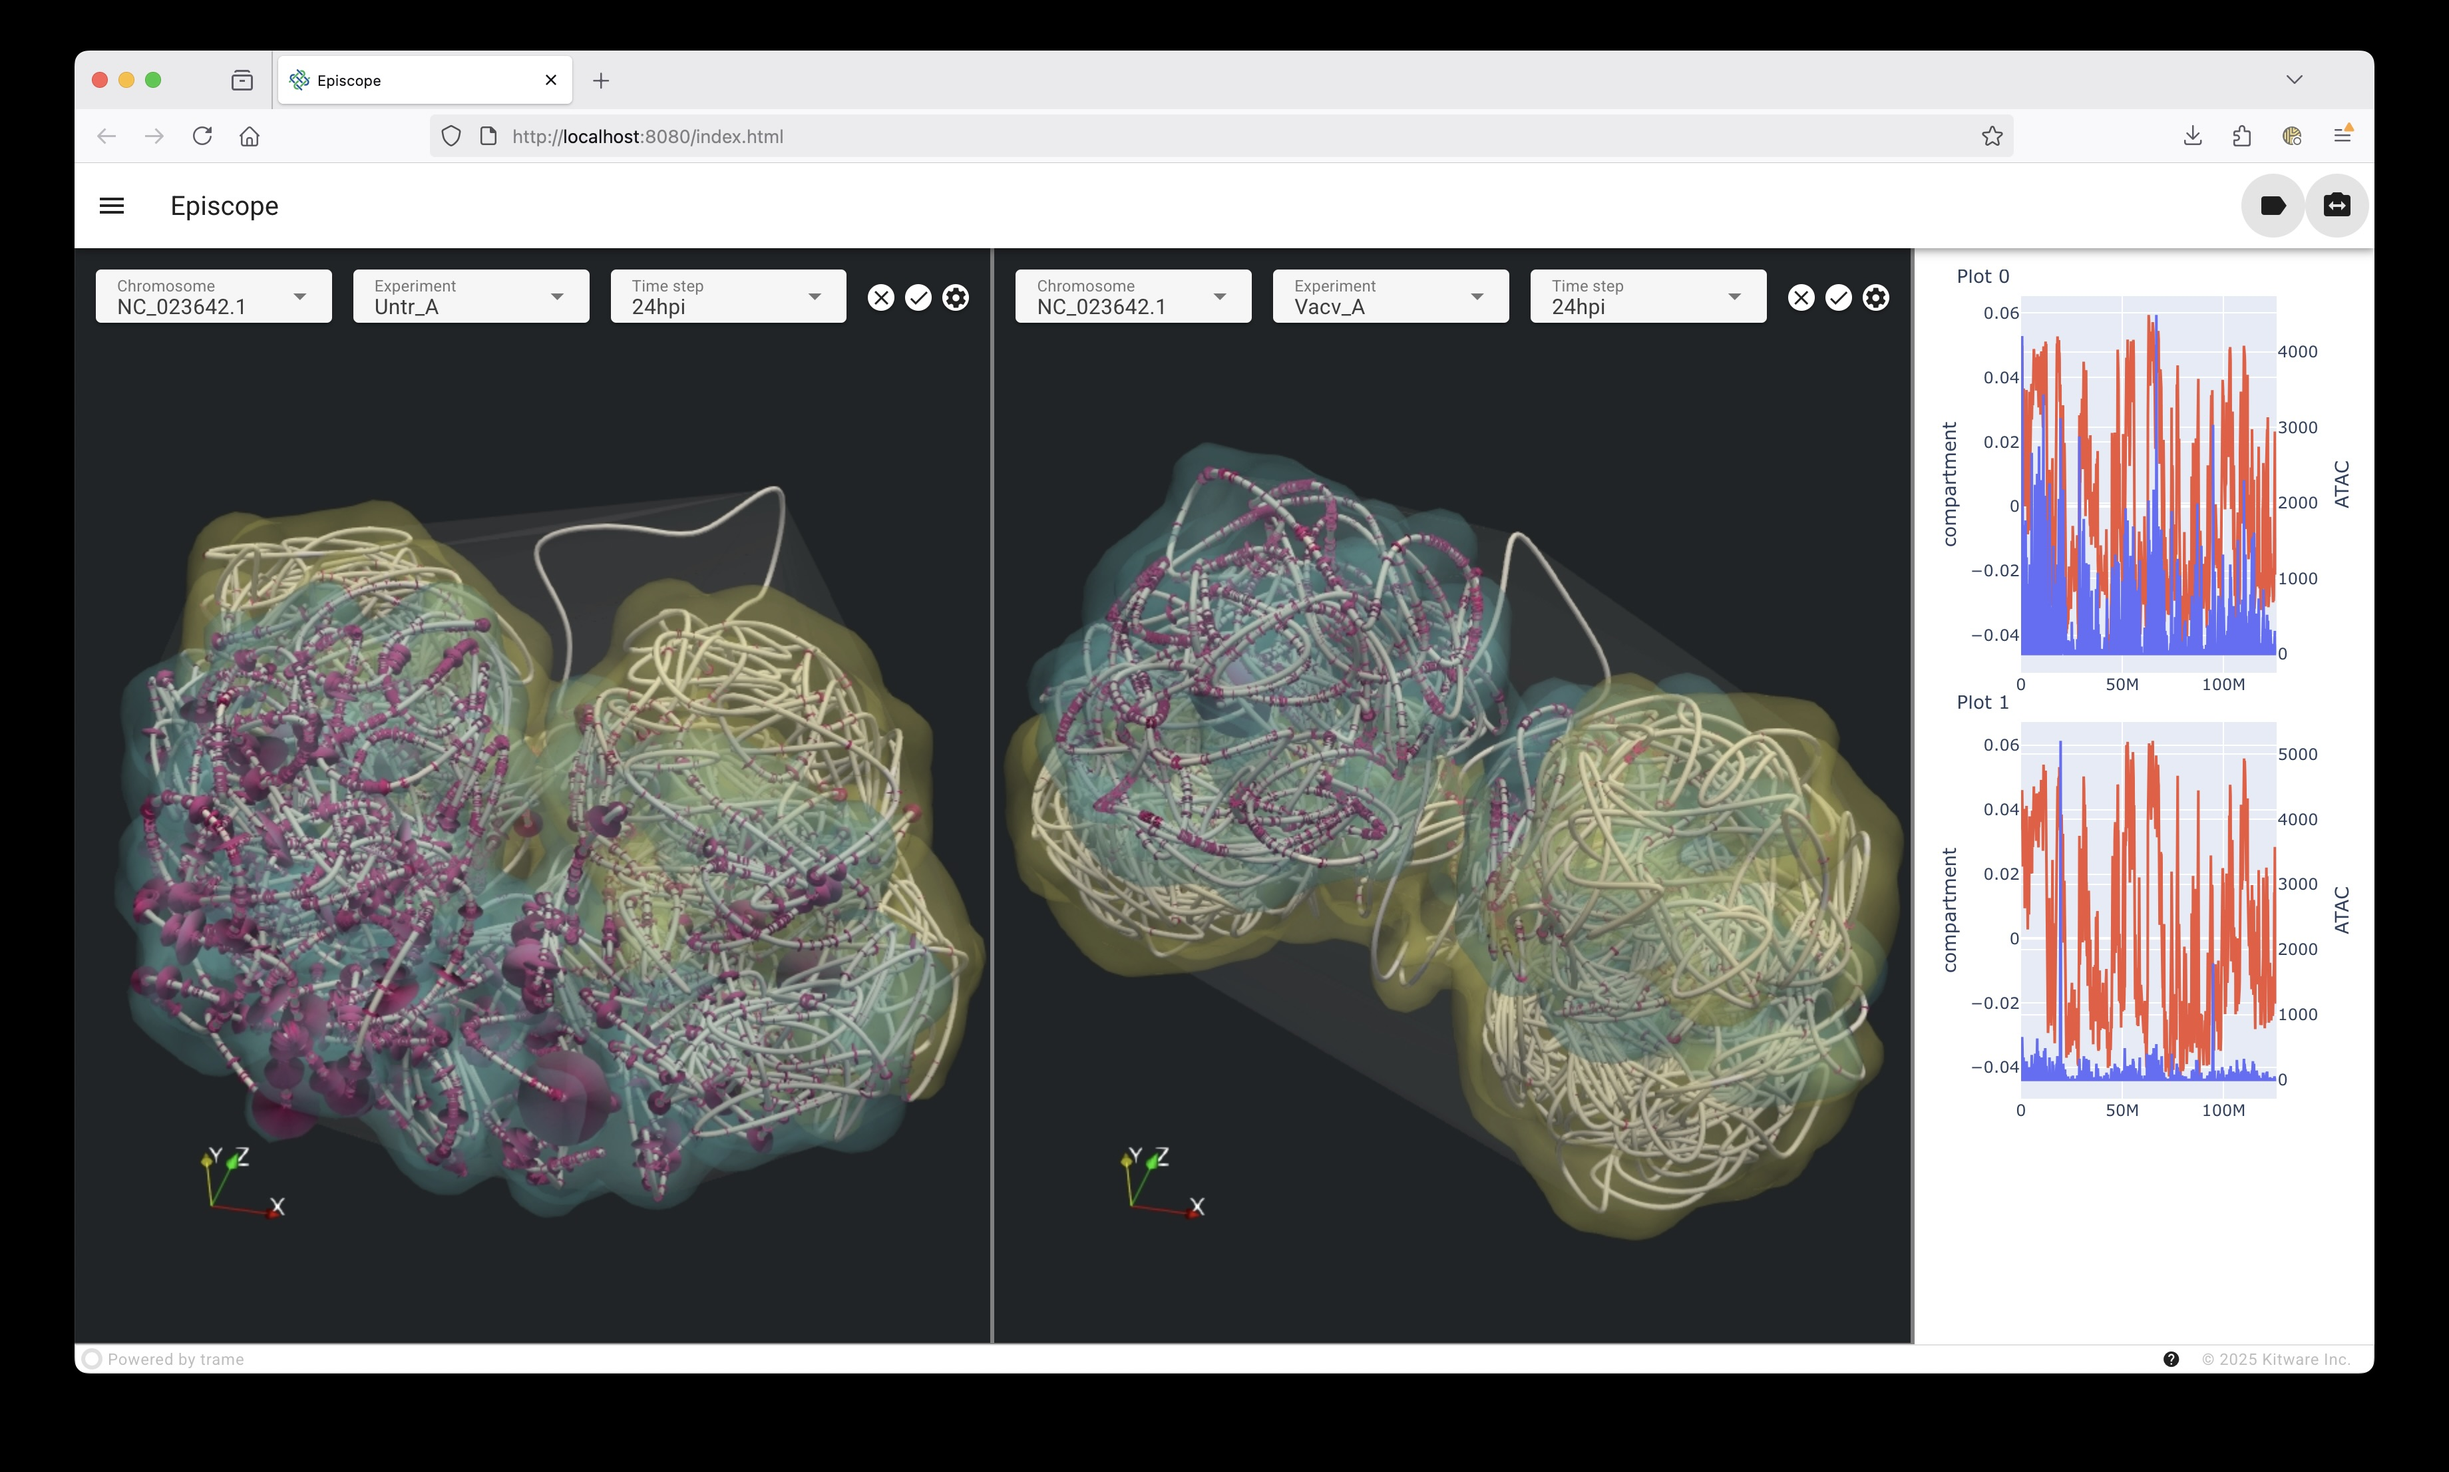
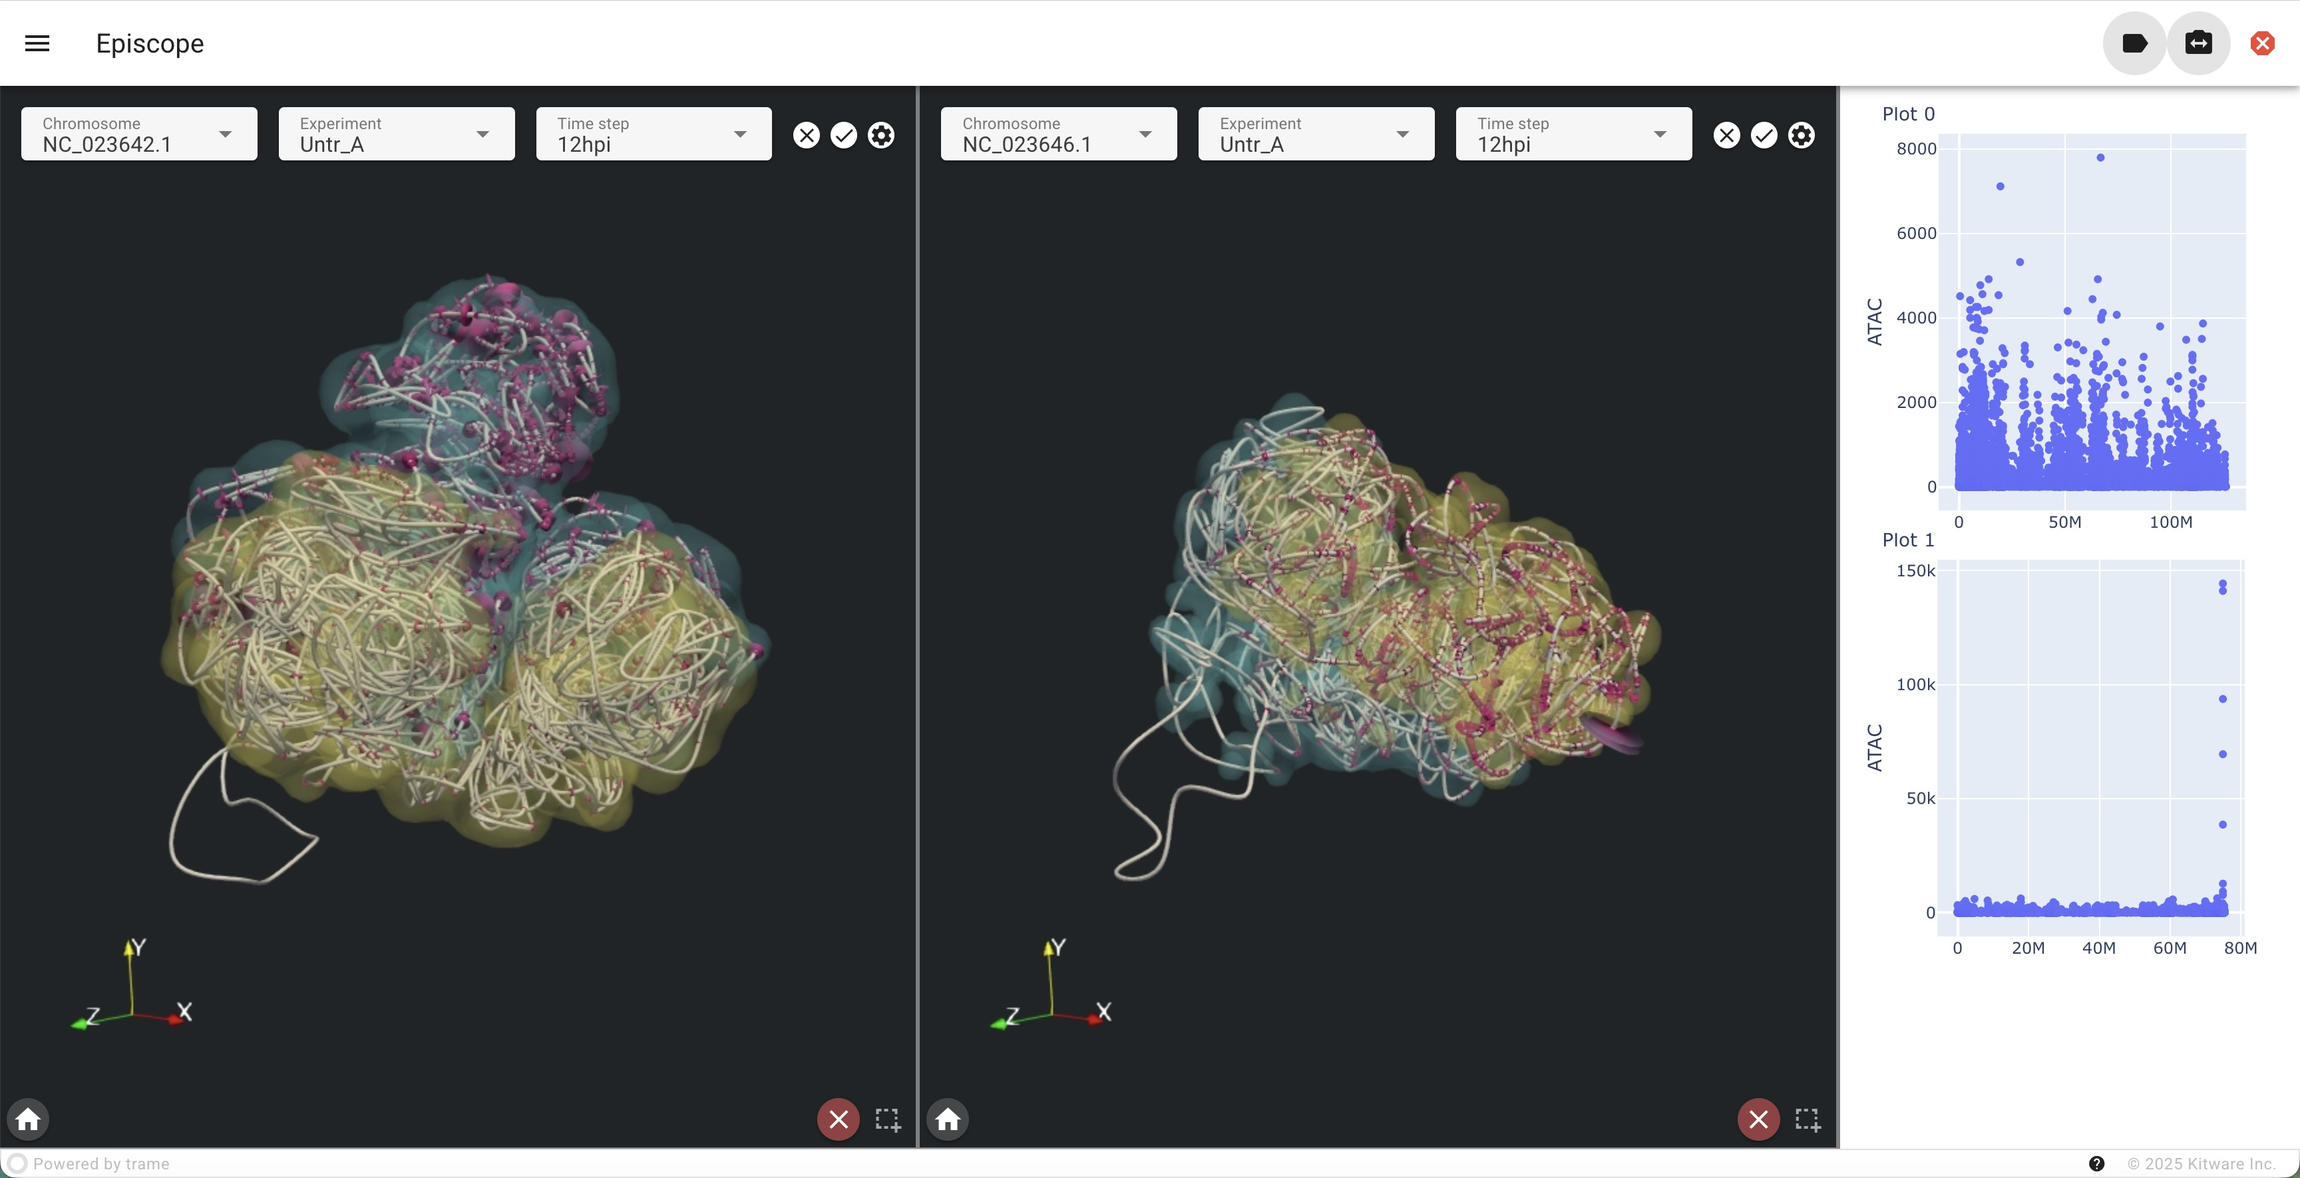
update readme

diff --git a/README.md b/README.md
@@ -111,3 +111,30 @@ labels:
 spheres:
   color: [1, 0, 1]
 ```
+
+## GUI Controls
+
+|![controls](doc/img/GUI_buttons.jpg)|
+| ---- |
+|*Overview of GUI controls*|
+
+1. Dataset selection (Chromosome, Experiment, Timestep)
+2. Clear Chromosome, Apply Chromosome, Chromosome Representations
+3. Reset Camera
+4. Clear Selection
+5. Enable/Disable Renderview Selection
+6. Enable/Disable Labels, Enable/Disable linked camera between views, Terminate server
+
+## RMSF Coloring
+If the structure.csv column has a rmsf column, the structure can be colored to show chromatin mobility (`rmsf`) with an option to also scale the tube size by rmsf (`rmsf_scaled`).
+
+|![rmsf_example](doc/img/rmsf_coloring.png)|
+| ---- |
+|*Example RMSF coloring video*|
+
+## Synced Selection for Narrow Peak Data
+If the data has a narrow peak variable, you can do a synced selection between the 3D object in the renderview and the 2D plot. *IMPORTANT: structure -> line must be enabled in the representations for the selection to work*.
+
+|![selection_example](doc/img/selection.gif)|
+| ---- |
+|*Example synced selection video*|
